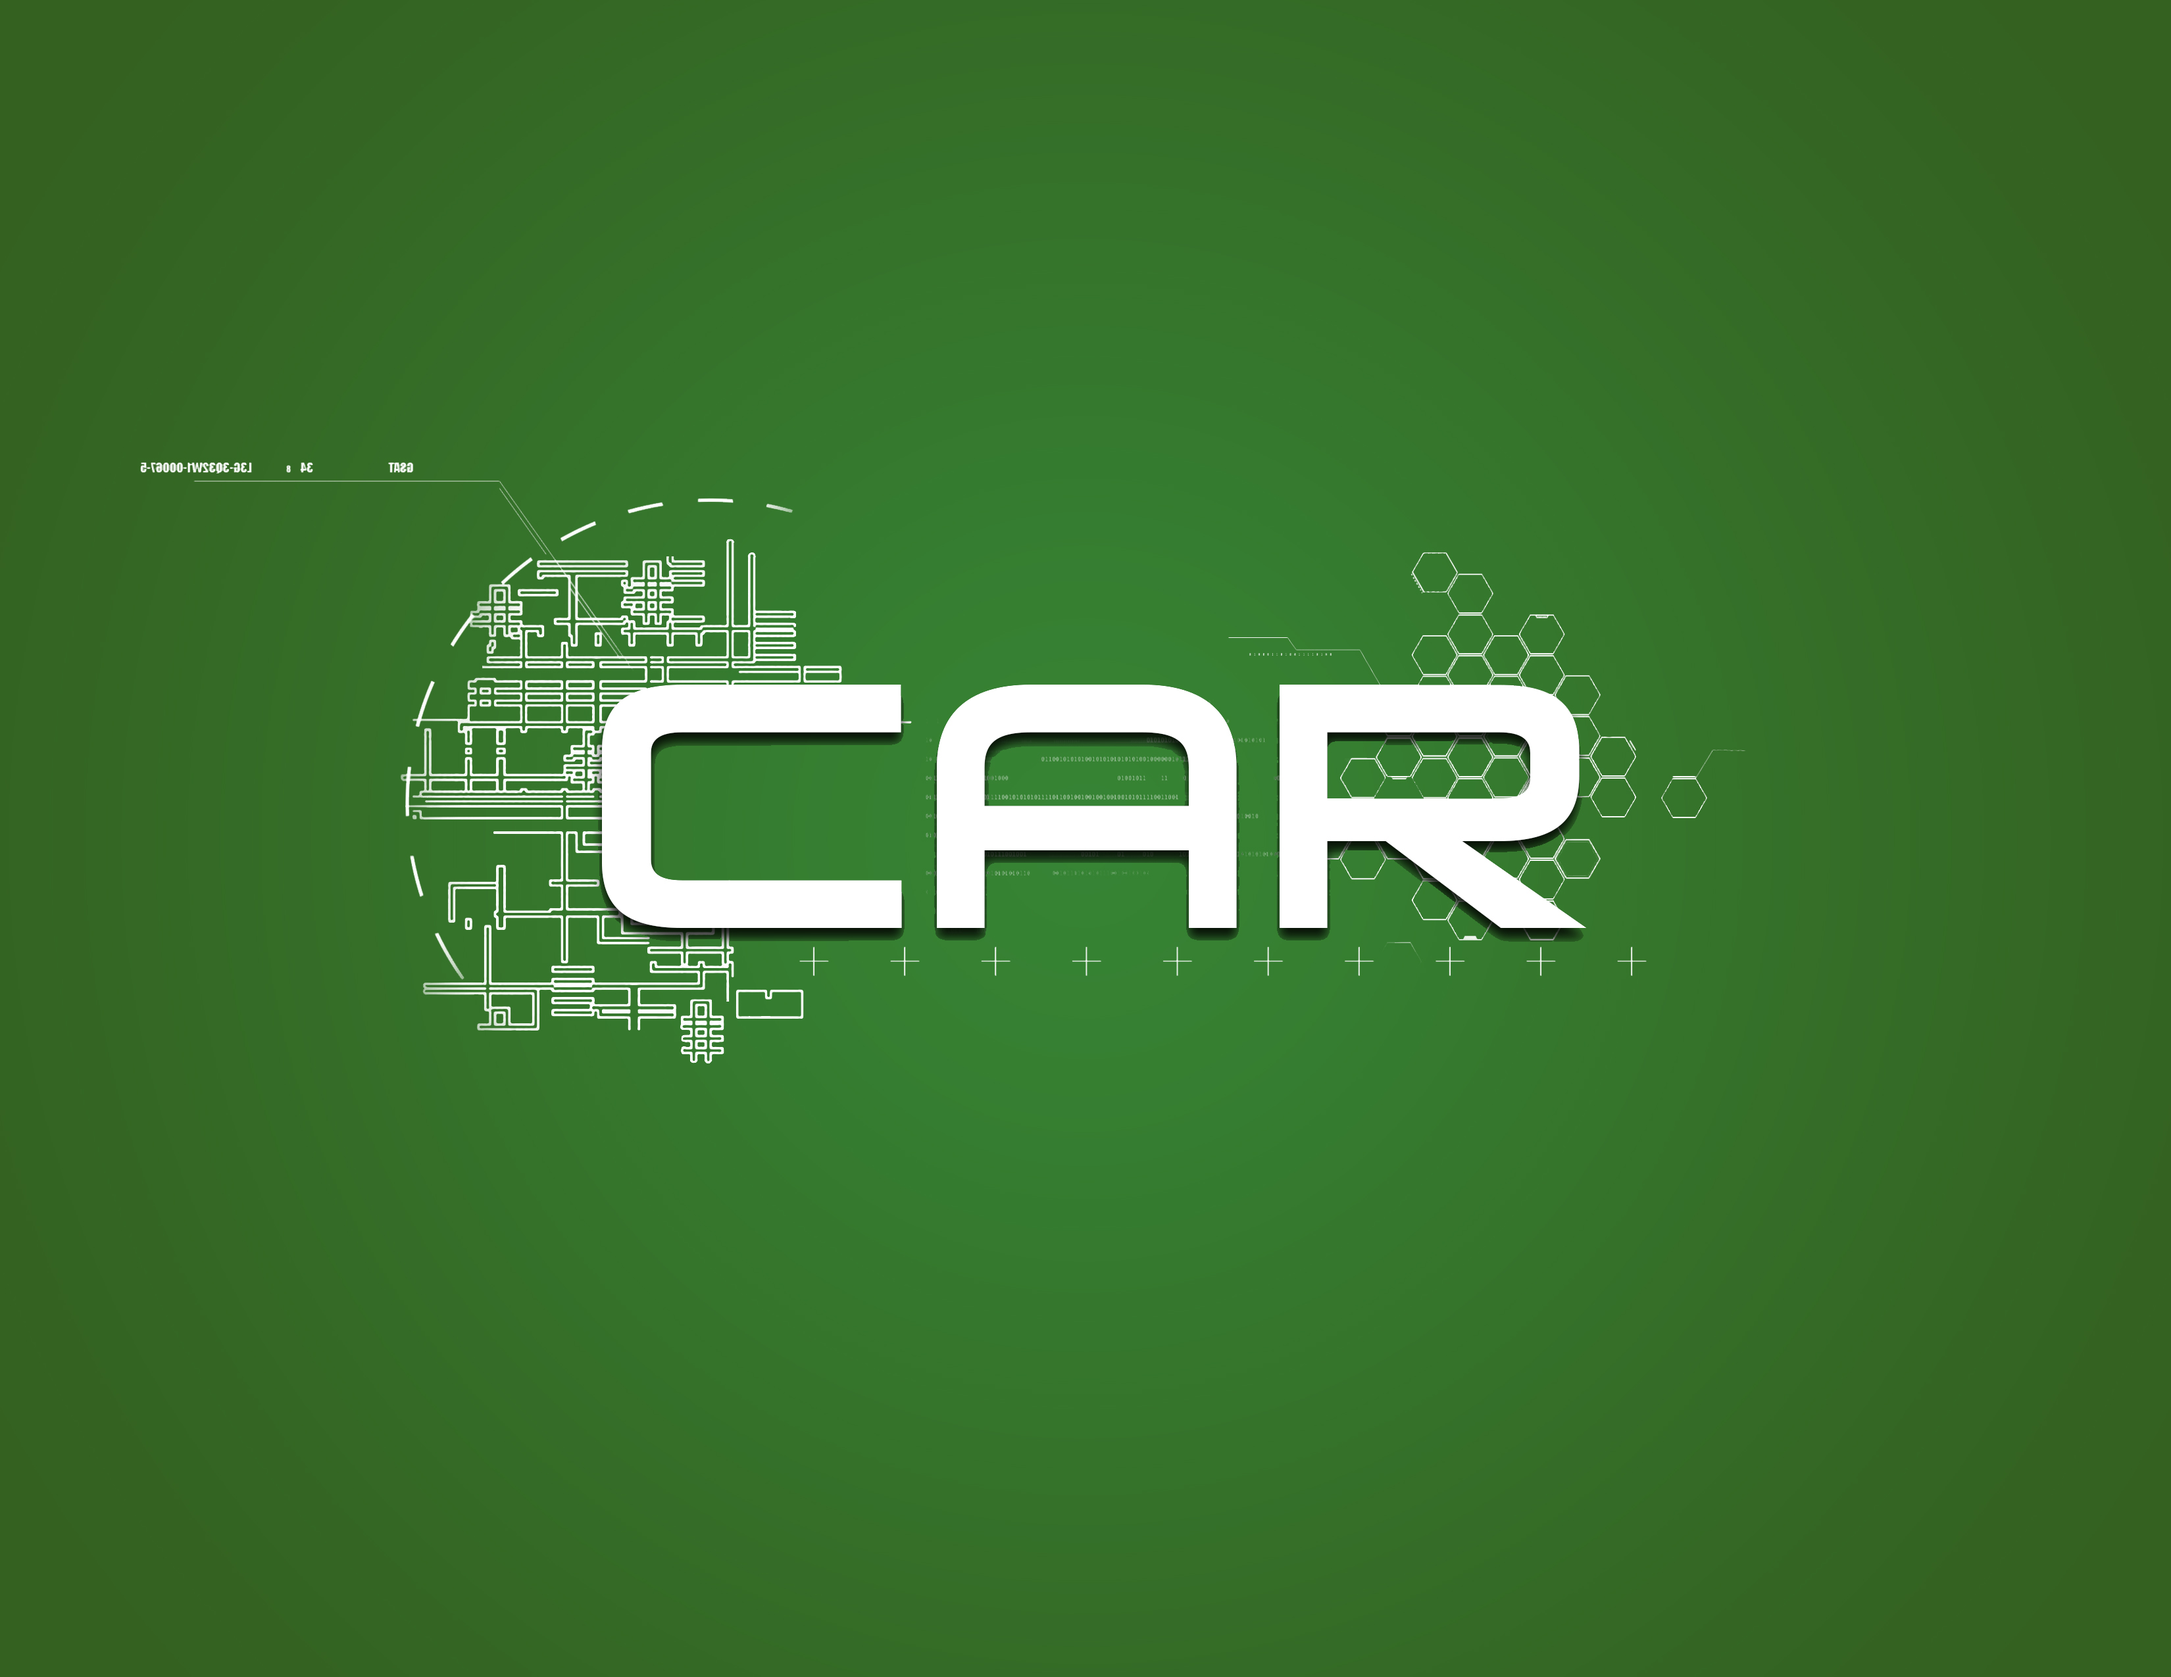
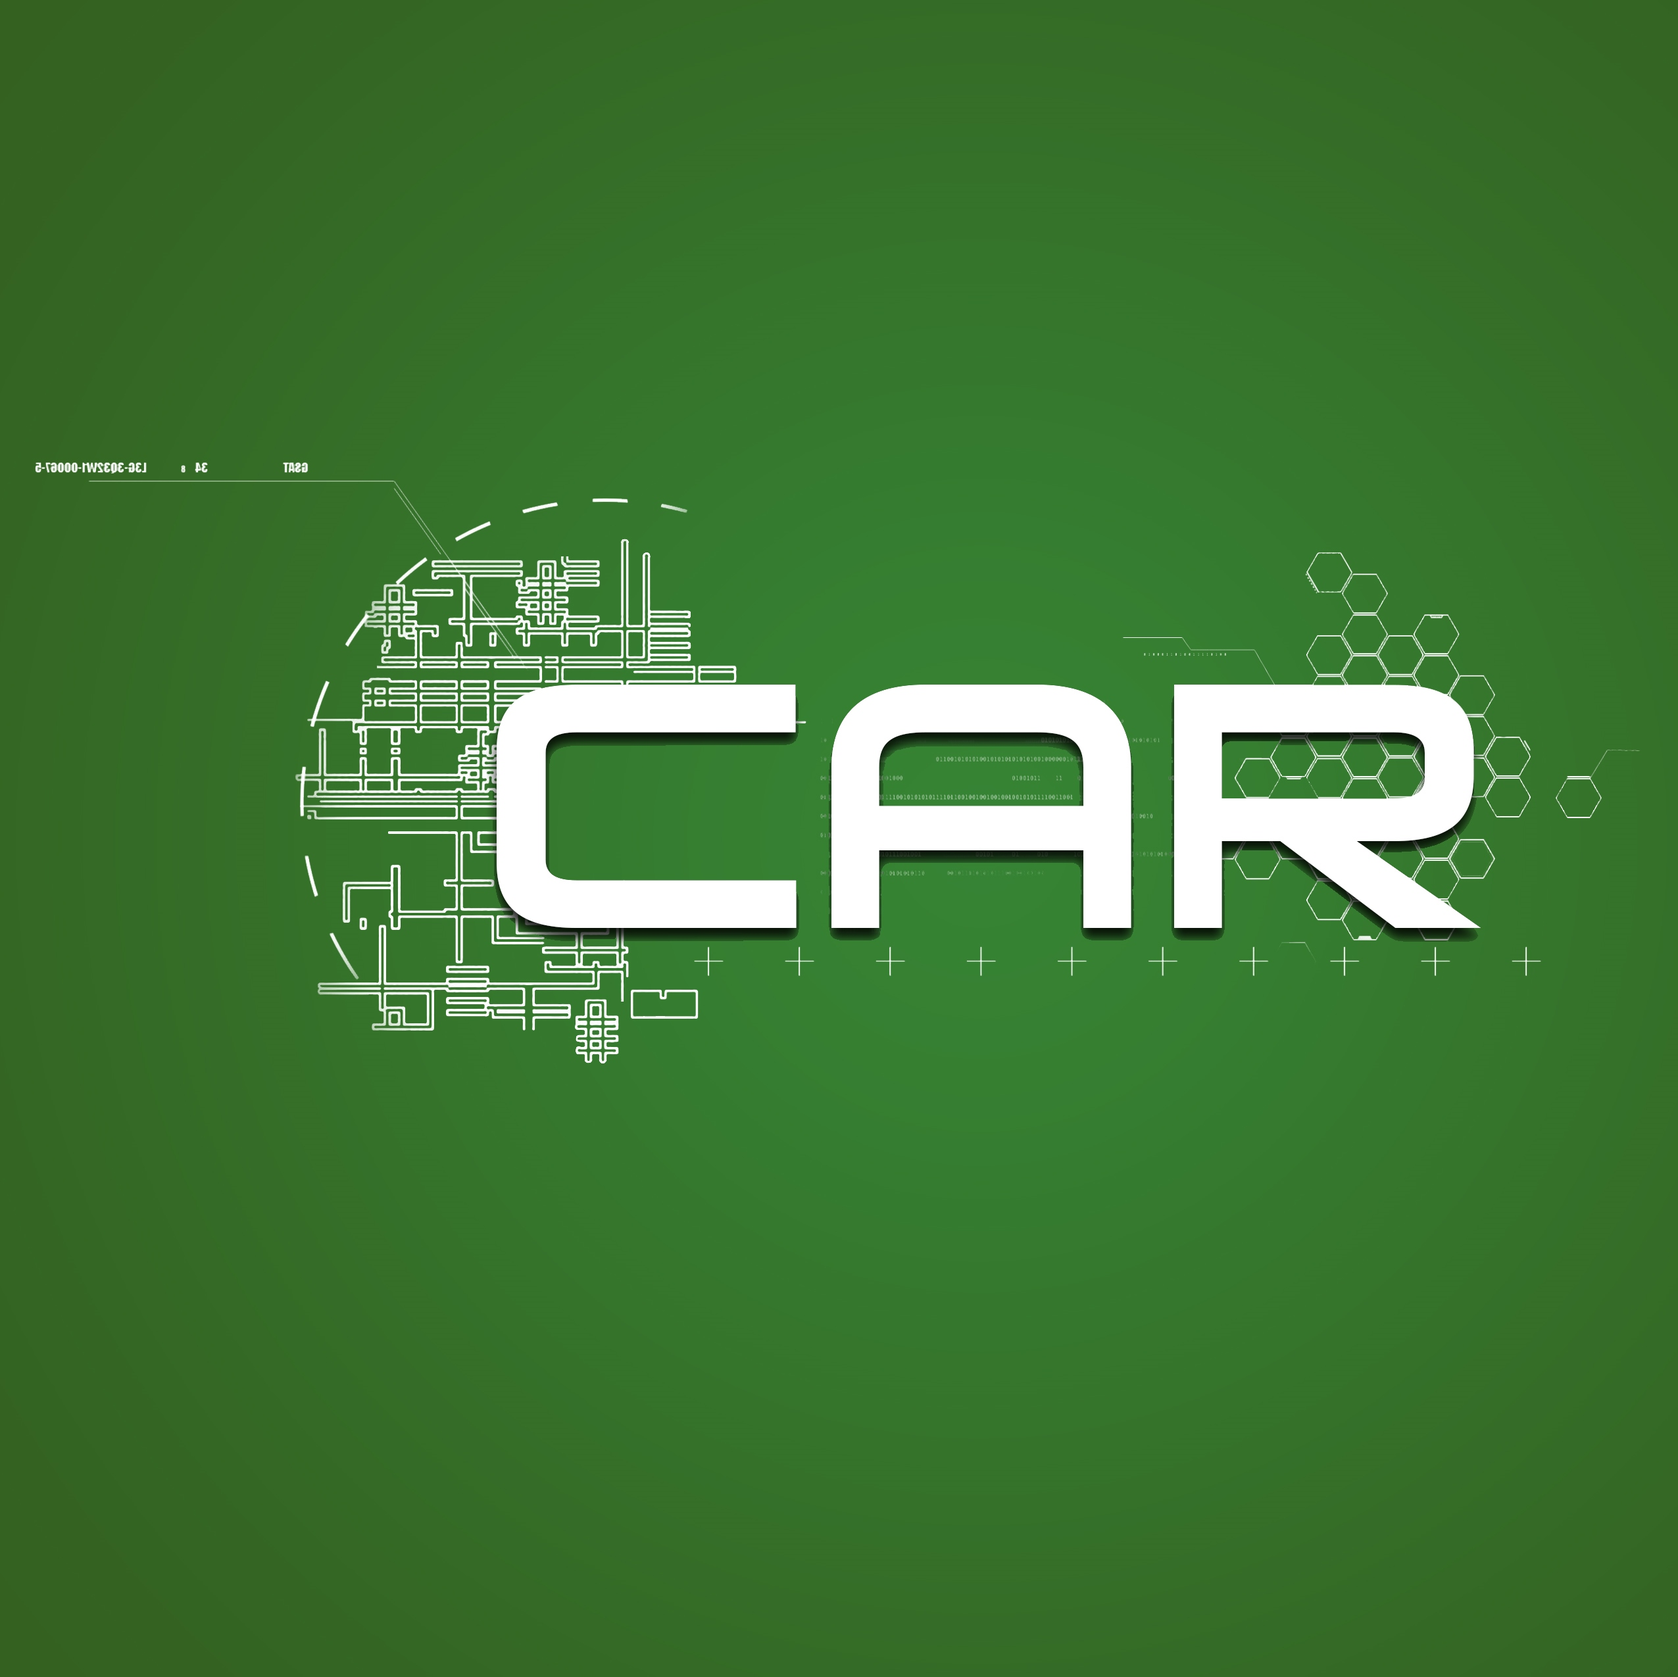
update v2

Changed region(s): [[0.1858, 0.3098, 0.8981, 0.6506], [0.0619, 0.2788, 0.0929, 0.3098]]

diff --git a/css/main.css b/css/main.css
@@ -38,7 +38,7 @@ img {
   width: 98vw;
   height: 50vh;
   position: relative;
-  top: 17%;
+  top: 14%;
 }
 
 #name {
@@ -52,7 +52,7 @@ img {
 #name-txt {
   position: absolute;
   font-size: 34vmin;
-  top:30%;
+  top:37%;
 }
 
 
@@ -126,6 +126,9 @@ article#MyIntro{
   margin: 0;
   z-index: -100px;
 }
+#MyWork{
+  height: auto;
+}
 #AllWork{
   background-color: white;
   padding-top:2%;
@@ -140,13 +143,6 @@ article#MyIntro{
         width: 100%;
         height: 400px;
 }
-
-.scroll-projpic{
-  height:40vh;
-  margin-left:3vw;
-  margin-top:3vh;
-}
-
 /*For My Team*/
 #MyTeam{
   height: 50vw;
@@ -245,7 +241,7 @@ article#MyIntro{
   font-family: 'Ubuntu', sans-serif;
   text-align: center;
   margin:0vw 2vw;
-  background-color: black;
+  background-color: #d7d7d7;
   color: white;
   font-size: 2vw;
 }
@@ -254,6 +250,7 @@ article#MyIntro{
   margin: 1vw 2vw;
   text-align: center;
   font-size: 1.2vw;
+  color: #636363;
 }
 .casePar
 {
@@ -314,7 +311,7 @@ p.pIntro
 }
 #WordPicContainer {
   width: 98vw;
-  height: 80vh;
+  height: auto;
 }
 #WorkPic {
   -moz-column-count: 4;

diff --git a/index.html b/index.html
@@ -84,6 +84,11 @@
                             <li><img src="img/Rippled Swan.jpg" alt="" /></li>
                             <li><img src="img/ygcp2.jpg" alt="" /></li>
                             <li><img src="img/car.jpg" alt="" /></li>
+                            <li><img src="img/stairs.jpg" alt="" /></li>
+                            <li><img src="img/Typo.jpg" alt="" /></li>
+                            <li><img src="img/WordGame.png" alt="" /></li>
+                            <li><img src="img/Void.png" alt="" /></li>
+                            <li><img src="img/WhatBeyond.jpg" alt="" /></li>
                         </ul> 
                     </div>  
                 </div>
